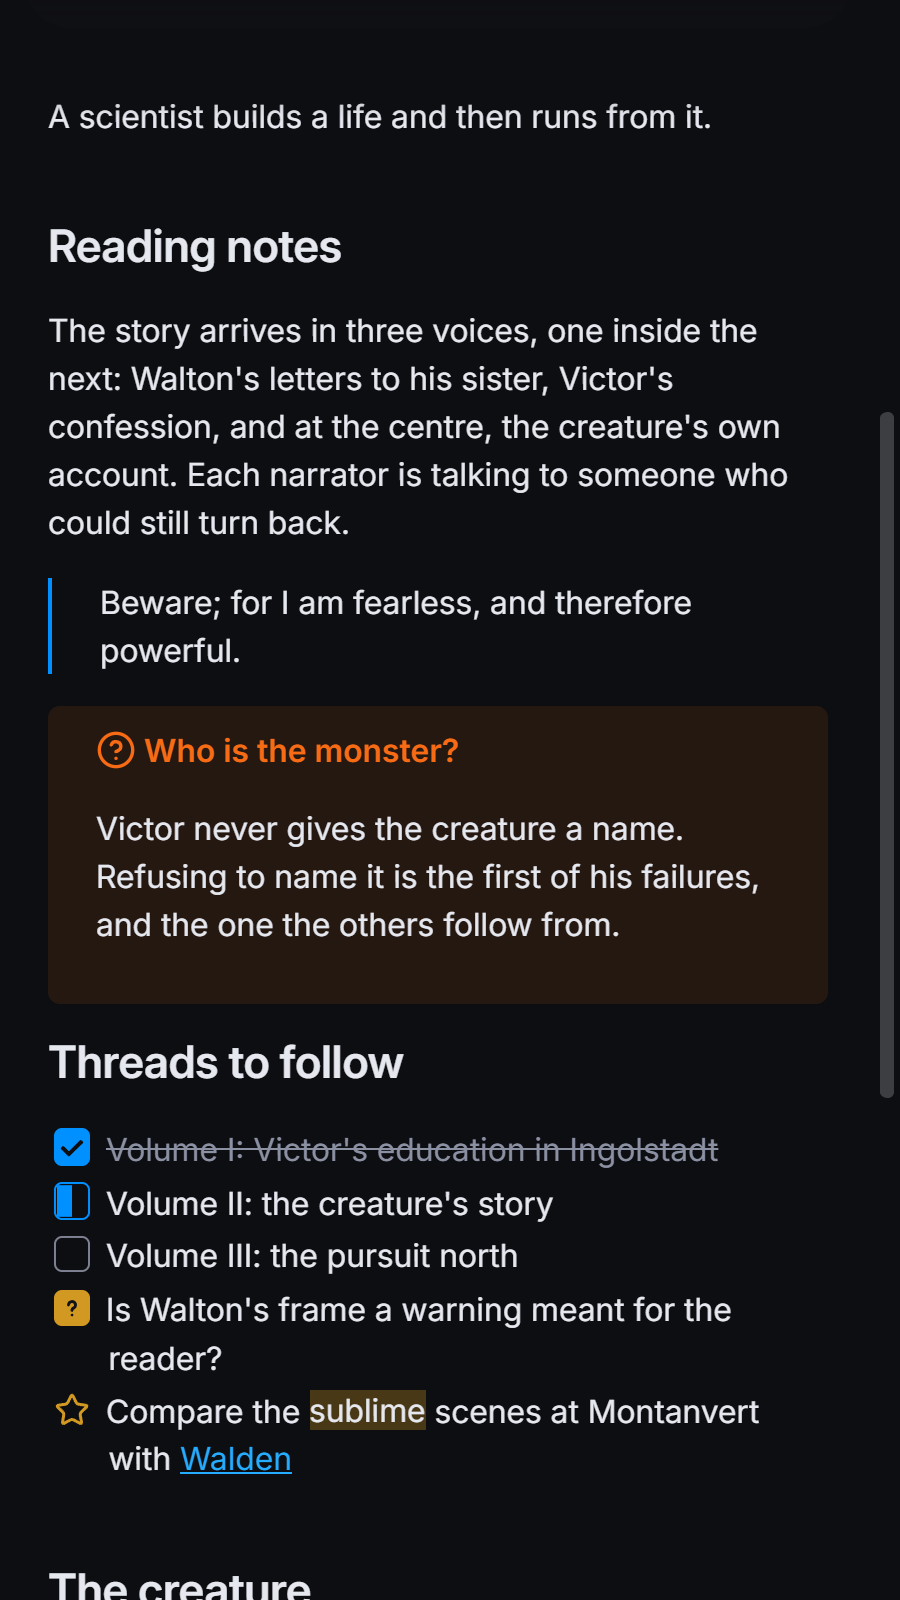
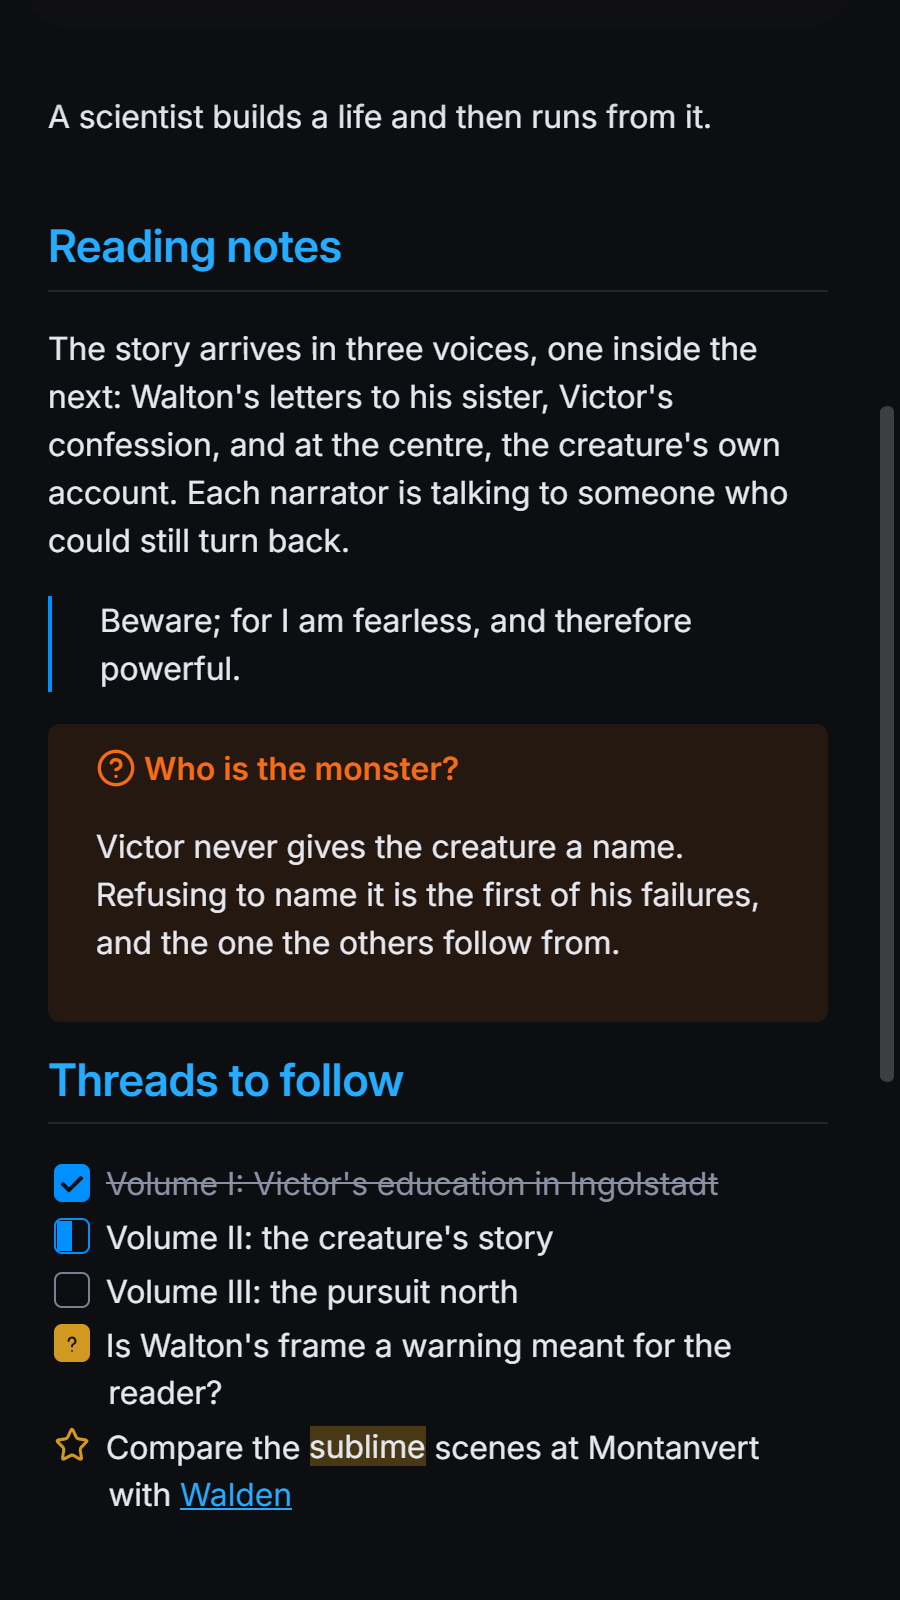
docs: a theme-browser thumbnail, images regenerated (#9)
npm run shots also writes assets/screenshot.png, the 512x288 thumbnail the
submission form asks for. Every image is regenerated: they still showed the
headings and tree marks from before #7 and #8.

diff --git a/CHANGELOG.md b/CHANGELOG.md
@@ -2,6 +2,11 @@
 
 ## Unreleased
 
+### 2026-10-09: a thumbnail for the theme browser
+
+- `npm run shots` also writes `assets/screenshot.png`, the 512×288 thumbnail Obsidian's theme browser shows: a 1024×576 window on the dark note, captured at 2x and scaled down. The submission form asks for it.
+- Regenerated every image, which still showed white headings and the file-tree marks from before the heading and tree changes.
+
 ### 2026-10-09: a whisper of accent on bold
 
 - Bold text mixes 16% of the accent into body ink: enough to catch, quieter than h3 (28%), so a bold run is not a heading and not a link. Links that are also bold keep the link colour. Colour is Obsidian's `--bold-color`, and a selector so it still applies inside quotes (live preview paints those lines as quote ink, which outranked bold).

diff --git a/CONTRIBUTING.md b/CONTRIBUTING.md
@@ -90,8 +90,9 @@ versions newer than itself. All options are listed at the top of `qa/run.mjs`.
 
 ## Screenshots
 
-`npm run shots` regenerates the README's cover and screenshots in `assets/` from the demo
-vault, in a throwaway Obsidian, in about a minute. Run it after any visible change.
+`npm run shots` regenerates the README's cover and screenshots, and the theme browser's
+512×288 thumbnail, in `assets/` from the demo vault, in a throwaway Obsidian, in about a
+minute. Run it after any visible change.
 
 ```sh
 npm run shots                        # the cover and every screenshot
